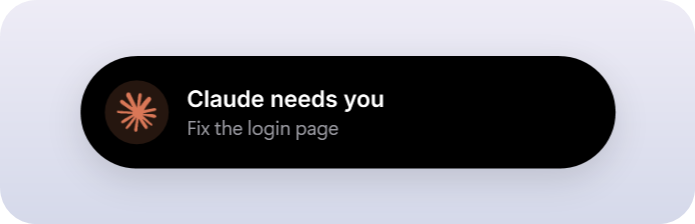
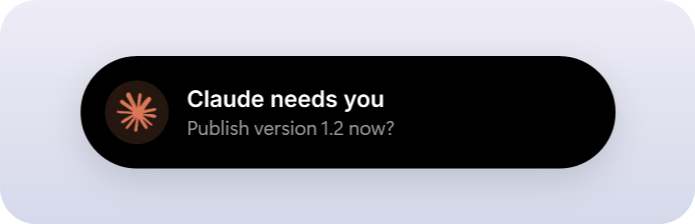
Show Claude Desktop questions in the island with an Open Claude link (2.4.3)

Changed region(s): [[0.2719, 0.5312, 0.5741, 0.625]]

diff --git a/src/IslandWindow.xaml b/src/IslandWindow.xaml
@@ -376,7 +376,8 @@
                             </Border>
                             <StackPanel Grid.Column="1" Margin="12,0,0,0" VerticalAlignment="Center">
                                 <TextBlock x:Name="ClaudeTitle" Text="Claude Code" FontSize="15" FontWeight="SemiBold"/>
-                                <TextBlock x:Name="ClaudeStatus" Style="{StaticResource Caption}" Margin="0,1,0,0"/>
+                                <TextBlock x:Name="ClaudeStatus" Style="{StaticResource Caption}" Margin="0,1,0,0" TextTrimming="CharacterEllipsis"/>
+                                <TextBlock x:Name="OpenClaudeLink" FontSize="12" Foreground="#0A84FF" Cursor="Hand" Margin="0,3,0,0" Visibility="Collapsed"/>
                             </StackPanel>
                         </Grid>
 

diff --git a/src/ClaudeWaiting.cs b/src/ClaudeWaiting.cs
@@ -38,7 +38,9 @@ namespace WindowsIsland
             public long Length;
             public DateTime Write;
             public Pending Oldest;
-            public bool Asking; // The last thing Claude did was ask a blocking question that has no answer yet
+            public bool Asking; // The last thing Claude did was ask a question that has no answer yet
+            public string AskText; // The question (shortened) and the names of its answer buttons
+            public List<string> AskButtons;
             public DateTime SearchedAt; // When the transcript was last looked for in vain
         }
 
@@ -46,13 +48,18 @@ namespace WindowsIsland
 
         // True when the chat's last turn ended with a question that needs an answer (Claude Desktop's wrap-up
         // with a blocking question, which is what turns the chat's dot yellow) and nothing was said after it.
-        public static bool IsAsking(string sessionId)
+        public static bool IsAsking(string sessionId, out string question, out List<string> buttons)
         {
+            question = null;
+            buttons = null;
             try
             {
                 OldestPending(sessionId);
                 Cached entry;
-                return cache.TryGetValue(sessionId, out entry) && entry.Asking;
+                if (!cache.TryGetValue(sessionId, out entry) || !entry.Asking) return false;
+                question = entry.AskText;
+                buttons = entry.AskButtons;
+                return true;
             }
             catch (Exception)
             {
@@ -119,14 +126,20 @@ namespace WindowsIsland
             entry.Length = info.Length;
             entry.Write = info.LastWriteTimeUtc;
             bool asking;
-            entry.Oldest = Scan(entry.Path, info.Length, out asking);
+            string askText;
+            List<string> askButtons;
+            entry.Oldest = Scan(entry.Path, info.Length, out asking, out askText, out askButtons);
             entry.Asking = asking;
+            entry.AskText = askText;
+            entry.AskButtons = askButtons;
             return entry.Oldest;
         }
 
-        static Pending Scan(string path, long length, out bool asking)
+        static Pending Scan(string path, long length, out bool asking, out string askText, out List<string> askButtons)
         {
             asking = false;
+            askText = null;
+            askButtons = null;
             byte[] bytes;
             using (FileStream stream = new FileStream(path, FileMode.Open, FileAccess.Read, FileShare.ReadWrite | FileShare.Delete))
             {
@@ -151,7 +164,7 @@ namespace WindowsIsland
                 bool assistant = line.Contains("\"type\":\"assistant\"", StringComparison.Ordinal);
                 bool result = line.Contains("\"tool_result\"", StringComparison.Ordinal);
                 // Something the user said (not a tool's result) answers any question asked before it
-                if (!assistant && !result && line.Contains("\"type\":\"user\"", StringComparison.Ordinal) && !line.Contains("\"isSidechain\":true", StringComparison.Ordinal)) asking = false;
+                if (!assistant && !result && line.Contains("\"type\":\"user\"", StringComparison.Ordinal) && !line.Contains("\"isSidechain\":true", StringComparison.Ordinal)) { asking = false; askText = null; askButtons = null; }
                 if (!assistant && !result) continue;
                 try
                 {
@@ -176,10 +189,29 @@ namespace WindowsIsland
                                 JsonElement id, name;
                                 if (block.TryGetProperty("id", out id) && block.TryGetProperty("name", out name) && id.ValueKind == JsonValueKind.String)
                                     open[id.GetString()] = new Pending { Name = name.GetString() ?? "", Since = when };
-                                JsonElement input, blocked;
+                                // Claude Desktop's wrap-up carries the question for you and the answer buttons it shows
+                                JsonElement input, ask, actions;
                                 if (block.TryGetProperty("name", out name) && name.GetString() == "mcp__ccd_turn__wrap_up" &&
-                                    block.TryGetProperty("input", out input) && input.ValueKind == JsonValueKind.Object &&
-                                    input.TryGetProperty("blocked", out blocked) && blocked.ValueKind == JsonValueKind.True) asking = true;
+                                    block.TryGetProperty("input", out input) && input.ValueKind == JsonValueKind.Object)
+                                {
+                                    string text = input.TryGetProperty("ask", out ask) && ask.ValueKind == JsonValueKind.String ? ask.GetString() : null;
+                                    bool hard = input.TryGetProperty("blocked", out ask) && ask.ValueKind == JsonValueKind.True;
+                                    if (!string.IsNullOrWhiteSpace(text) || hard)
+                                    {
+                                        asking = true;
+                                        text = (text ?? "").Trim();
+                                        askText = text.Length > 140 ? text.Substring(0, 139) + "\u2026" : text;
+                                        askButtons = new List<string>();
+                                        if (input.TryGetProperty("actions", out actions) && actions.ValueKind == JsonValueKind.Array)
+                                            foreach (JsonElement action in actions.EnumerateArray())
+                                            {
+                                                JsonElement label;
+                                                if (action.ValueKind == JsonValueKind.Object && action.TryGetProperty("label", out label) && label.ValueKind == JsonValueKind.String)
+                                                    askButtons.Add(label.GetString());
+                                            }
+                                    }
+                                    else { asking = false; askText = null; askButtons = null; }
+                                }
                             }
                             else if (kind == "tool_result")
                             {

diff --git a/src/ClaudeService.cs b/src/ClaudeService.cs
@@ -37,6 +37,7 @@ namespace WindowsIsland
             public string Id;
             public string Name;
             public string Status;
+            public string Question;
             public DateTime StatusSince;
         }
 
@@ -66,7 +67,9 @@ namespace WindowsIsland
             public string Name;
             public bool Waiting;
             public DateTime Since;
+            public string Question; // What a waiting chat asks, when it asked a question
         }
+        public string LastQuestion { get; private set; } // The question of the chat that just started waiting
         public List<ActiveSession> Active { get; private set; } = new List<ActiveSession>();
         public string WaitingName { get; private set; }
         public UsageWindow Session { get; private set; }
@@ -134,7 +137,7 @@ namespace WindowsIsland
         {
             DateTime now = DateTime.Now;
             Active = new List<ActiveSession>();
-            if (waiting > 0) Active.Add(new ActiveSession { Name = Strings.SampleSessionTwo, Waiting = true, Since = now.AddSeconds(-20) });
+            if (waiting > 0) Active.Add(new ActiveSession { Name = Strings.SampleSessionTwo, Waiting = true, Since = now.AddSeconds(-20), Question = Strings.SampleQuestion });
             Active.Add(new ActiveSession { Name = Strings.SampleSession, Since = now.AddSeconds(-84) });
             Running = 2;
             Busy = waiting > 0 ? 1 : 2;
@@ -183,7 +186,7 @@ namespace WindowsIsland
             {
                 present.Add(session.Id);
                 if (session.Status == "busy" || session.Status == "waiting")
-                    active.Add(new ActiveSession { Name = session.Name, Waiting = session.Status == "waiting", Since = session.StatusSince });
+                    active.Add(new ActiveSession { Name = session.Name, Waiting = session.Status == "waiting", Since = session.StatusSince, Question = session.Question });
                 if (session.Status == "busy")
                 {
                     busy++;
@@ -203,7 +206,10 @@ namespace WindowsIsland
                 if (seen.TryGetValue(session.Id, out previous) && previous.Status != session.Status && primed)
                 {
                     if (session.Status == "waiting")
+                    {
+                        LastQuestion = session.Question;
                         Alert?.Invoke(true, session.Name);
+                    }
                     else if (previous.Status == "busy" && session.Status == "idle" &&
                              session.StatusSince - previous.Since >= MinimumWorkForAlert)
                         Alert?.Invoke(false, session.Name);
@@ -347,7 +353,16 @@ namespace WindowsIsland
                         // Claude Desktop keeps a session "busy" while it asks for a permission, so look at the transcript too
                         if (session.Status == "busy" && ClaudeWaiting.IsWaiting(session.Id, processId)) session.Status = "waiting";
                         // A chat that ended its turn with a question for you (the yellow dot in Claude Desktop) also waits
-                        else if ((session.Status == "idle" || session.Status == "busy") && ClaudeWaiting.IsAsking(session.Id)) session.Status = "waiting";
+                        else if (session.Status == "idle" || session.Status == "busy")
+                        {
+                            string question;
+                            System.Collections.Generic.List<string> buttons;
+                            if (ClaudeWaiting.IsAsking(session.Id, out question, out buttons))
+                            {
+                                session.Status = "waiting";
+                                session.Question = question;
+                            }
+                        }
                         sessions.Add(session);
                     }
                 }

diff --git a/src/IslandWindow.xaml.cs b/src/IslandWindow.xaml.cs
@@ -169,6 +169,8 @@ namespace WindowsIsland
             Pill.MouseLeave += OnPillLeave;
             Pill.MouseLeftButtonUp += OnPillClick;
             enterTimer.Tick += (s, e) => { enterTimer.Stop(); SetHovering(true); };
+            OpenClaudeLink.MouseLeftButtonUp += (s, e) => { e.Handled = true; ClaudeWindow.Focus(); };
+            OpenClaudeLink.MouseLeftButtonDown += (s, e) => e.Handled = true;
             // Resting the mouse on the small second activity opens the island straight on that activity's page
             bubbleTimer.Tick += (s, e) =>
             {
@@ -691,7 +693,7 @@ namespace WindowsIsland
             SaveSnapshot(System.IO.Path.Combine(folder, "notification" + suffix + ".png"));
 
             // Claude asking for you (a permission or a question), on the same banner
-            banners.Enqueue(new BannerItem { FromClaude = true, Title = Strings.ClaudeNeedsYou, Subtitle = Strings.SampleSessionTwo, Seconds = 5 });
+            banners.Enqueue(new BannerItem { FromClaude = true, Title = Strings.ClaudeNeedsYou, Subtitle = Strings.SampleQuestion, Seconds = 5 });
             NextBanner();
             Root.UpdateLayout();
             ApplyFrame();
@@ -1183,7 +1185,7 @@ namespace WindowsIsland
             {
                 FromClaude = true,
                 Title = waiting ? Strings.ClaudeNeedsYou : Strings.ClaudeDone,
-                Subtitle = name,
+                Subtitle = waiting && !string.IsNullOrWhiteSpace(claude.LastQuestion) ? claude.LastQuestion : name,
                 Seconds = settings.AlertSeconds + (waiting ? 1 : 0), // A question waits a little longer
             });
         }
@@ -1517,6 +1519,8 @@ namespace WindowsIsland
             }
 
             ClaudeTitle.Visibility = many > 1 ? Visibility.Collapsed : Visibility.Visible; // The lines take its place
+            OpenClaudeLink.Visibility = waiting ? Visibility.Visible : Visibility.Collapsed; // A question is answered in the Claude app
+            if (waiting && OpenClaudeLink.Text.Length == 0) OpenClaudeLink.Text = Strings.OpenClaude;
             string status;
             if (many > 1)
             {
@@ -1525,7 +1529,7 @@ namespace WindowsIsland
                 for (int i = 0; i < Math.Min(3, many); i++)
                 {
                     ClaudeService.ActiveSession item = claude.Active[i];
-                    lines.Add(item.Waiting ? Join(Strings.WaitingForYou, item.Name) : Join(Strings.Working + " " + FormatTime(DateTime.Now - item.Since), item.Name));
+                    lines.Add(item.Waiting ? Join(Strings.WaitingForYou, string.IsNullOrWhiteSpace(item.Question) ? item.Name : item.Name + ": " + item.Question) : Join(Strings.Working + " " + FormatTime(DateTime.Now - item.Since), item.Name));
                 }
                 if (many > 3) lines.Add("+" + (many - 3));
                 status = string.Join(Environment.NewLine, lines);

diff --git a/src/Strings.cs b/src/Strings.cs
@@ -75,6 +75,7 @@ namespace WindowsIsland
                                                          "Você está livre ao meio-dia? Abriu um lugar novo aqui perto.",
                                                          "¿Estás libre al mediodía? Abrieron un sitio nuevo cerca.",
                                                          "Вы свободны в полдень? Рядом открылось новое место.");
+        public static string SampleQuestion => T("Publish version 1.2 now?", "Publico a versão 1.2 agora?", "¿Publico la versión 1.2 ahora?", "Опубликовать версию 1.2 сейчас?");
         public static string SampleSessionTwo => T("Fix the login page", "Corrigir a página de login", "Arreglar la página de inicio de sesión", "Исправить страницу входа");
         public static string SampleSession => T("Refactor the settings panel", "Refatorar o painel de ajustes", "Refactorizar el panel de ajustes", "Переработать панель настроек");
 
@@ -187,6 +188,7 @@ namespace WindowsIsland
         public static string UpdateFailed => T("Could not check for updates", "Não foi possível procurar atualizações", "No se pudo buscar actualizaciones", "Не удалось проверить обновления");
         public static string UpdatesNeedInstall => T("Updates work in the installed copy", "As atualizações funcionam na cópia instalada", "Las actualizaciones funcionan en la copia instalada", "Обновления работают в установленной копии");
         public static string UpdatedTo(string version) => T("Updated to version ", "Atualizado para a versão ", "Actualizado a la versión ", "Обновлено до версии ") + version;
+        public static string OpenClaude => T("Open Claude", "Abrir o Claude", "Abrir Claude", "Открыть Claude");
         public static string MenuUninstall => T("Uninstall Windows Island", "Desinstalar o Windows Island", "Desinstalar Windows Island", "Удалить Windows Island");
         public static string MenuOpenSettings => T("Open settings file", "Abrir arquivo de configurações", "Abrir archivo de configuración", "Открыть файл настроек");
         public static string MenuQuit => T("Quit", "Sair", "Salir", "Выход");

diff --git a/src/ClaudeWindow.cs b/src/ClaudeWindow.cs
@@ -1,0 +1,44 @@
+using System;
+using System.Diagnostics;
+using System.Runtime.InteropServices;
+using System.Text;
+
+namespace WindowsIsland
+{
+    // Brings the Claude desktop app to the front, so a question it asks can be answered there.
+    static class ClaudeWindow
+    {
+        delegate bool EnumProc(IntPtr h, IntPtr l);
+        [DllImport("user32.dll")] static extern bool EnumWindows(EnumProc proc, IntPtr l);
+        [DllImport("user32.dll")] static extern bool IsWindowVisible(IntPtr h);
+        [DllImport("user32.dll", CharSet = CharSet.Unicode)] static extern int GetWindowText(IntPtr h, StringBuilder text, int max);
+        [DllImport("user32.dll")] static extern uint GetWindowThreadProcessId(IntPtr h, out uint pid);
+        [DllImport("user32.dll")] static extern bool SetForegroundWindow(IntPtr h);
+        [DllImport("user32.dll")] static extern bool ShowWindow(IntPtr h, int cmd);
+        [DllImport("user32.dll")] static extern bool IsIconic(IntPtr h);
+
+        public static void Focus()
+        {
+            IntPtr found = IntPtr.Zero;
+            EnumWindows((h, l) =>
+            {
+                if (!IsWindowVisible(h)) return true;
+                StringBuilder title = new StringBuilder(128);
+                GetWindowText(h, title, 128);
+                if (!title.ToString().StartsWith("Claude", StringComparison.Ordinal)) return true;
+                uint pid;
+                GetWindowThreadProcessId(h, out pid);
+                try
+                {
+                    using (Process owner = Process.GetProcessById((int)pid))
+                        if (string.Equals(owner.ProcessName, "claude", StringComparison.OrdinalIgnoreCase)) { found = h; return false; }
+                }
+                catch (Exception) { }
+                return true;
+            }, IntPtr.Zero);
+            if (found == IntPtr.Zero) return;
+            if (IsIconic(found)) ShowWindow(found, 9);
+            SetForegroundWindow(found);
+        }
+    }
+}

diff --git a/README.ru.md b/README.ru.md
@@ -36,7 +36,7 @@ Dynamic Island для Windows. Музыка, Claude Code, его лимиты и
 - **Уведомления Windows** в острове, со значком приложения-отправителя, если их включить
 - **Две активности сразу:** вторая отделяется в пузырёк рядом с островом
 - **Несколько чатов Claude одновременно:** остров считает их (например, `2 · 0:58` или `1/2 · Ждёт`, когда один из двух ждёт вас), а страница Claude показывает каждый чат с его состоянием и временем
-- **Разрешения в Claude Desktop:** чат в приложении Claude для компьютера, который просит разрешение или задаёт вопрос, отображается как ожидающий вас, как и в терминале
+- **Разрешения в Claude Desktop:** чат в приложении Claude для компьютера, который просит разрешение или задаёт вопрос, отображается как ожидающий вас, как и в терминале Вопрос (если он короткий) показывается в оповещении, а на странице Claude есть ссылка **Открыть Claude**, которая выводит приложение на передний план, чтобы ответить.
 - **Значки сайтов:** с расширением для браузера веб-звук показывает значок самого сайта, а уведомления сайтов — значок и название сайта
 - **Плавное движение:** форма и содержимое меняются по законам пружины, а не за фиксированное время
 - **Ненавязчивость:** остров никогда не забирает фокус, клики вокруг него проходят в окно под ним, при развёрнутом окне он сжимается в тонкую линию, а в полноэкранном режиме скрывается

diff --git a/README.es.md b/README.es.md
@@ -36,7 +36,7 @@ Una Dynamic Island para Windows. La música, Claude Code, sus límites de uso y 
 - **Notificaciones de Windows** en la isla, con el icono de la app que las envió, si las activas
 - **Dos actividades a la vez:** la segunda se separa en una burbuja junto a la isla
 - **Varios chats de Claude a la vez:** la isla los cuenta (por ejemplo `2 · 0:58`, o `1/2 · Esperando` cuando uno de dos te espera) y la página de Claude lista cada chat con su estado y tiempo
-- **Permisos en Claude Desktop:** un chat de la app de escritorio de Claude que pide un permiso o hace una pregunta aparece como esperándote, igual que en el terminal
+- **Permisos en Claude Desktop:** un chat de la app de escritorio de Claude que pide un permiso o hace una pregunta aparece como esperándote, igual que en el terminal La pregunta (si es corta) aparece en el aviso, con un enlace **Abrir Claude** en la página de Claude que trae la app al frente para responder.
 - **Iconos de sitios:** con la extensión del navegador, el audio web muestra el icono del propio sitio, y las notificaciones de sitios muestran el icono y el nombre del sitio
 - **Movimiento fluido:** la forma y el contenido cambian con resortes, nunca con transiciones de duración fija
 - **Discreta:** nunca toma el foco, los clics a su alrededor llegan a la ventana de abajo, se reduce a una línea fina cuando hay una ventana maximizada delante y se oculta en pantalla completa

diff --git a/README.pt-BR.md b/README.pt-BR.md
@@ -36,7 +36,7 @@ Uma Dynamic Island para o Windows. Música, Claude Code, os limites de uso e sua
 - **Notificações do Windows** na ilha, com o ícone do app que as enviou, se você ligar
 - **Duas atividades ao mesmo tempo:** a segunda se separa numa bolha ao lado da ilha
 - **Vários chats do Claude ao mesmo tempo:** a ilha os conta (por exemplo `2 · 0:58`, ou `1/2 · Aguardando` quando um de dois espera você) e a página do Claude lista cada chat com seu estado e tempo
-- **Permissões no Claude Desktop:** um chat do app de desktop do Claude que pede uma permissão ou faz uma pergunta aparece como esperando você, como no terminal
+- **Permissões no Claude Desktop:** um chat do app de desktop do Claude que pede uma permissão ou faz uma pergunta aparece como esperando você, como no terminal A pergunta (quando é curta) aparece no aviso, com um link **Abrir o Claude** na página do Claude que traz o app para a frente para você responder.
 - **Ícones de sites:** com a extensão de navegador, o áudio da web mostra o ícone do próprio site, e as notificações de sites mostram o ícone e o nome do site
 - **Movimento fluido:** forma e conteúdo mudam com molas, nunca com transições de tempo fixo
 - **Discreta:** nunca rouba o foco, cliques ao redor chegam à janela de baixo, vira uma linha fina quando há uma janela maximizada na frente e some em tela cheia

diff --git a/README.md b/README.md
@@ -36,7 +36,7 @@ A Dynamic Island for Windows. Music, Claude Code, its usage limits and your noti
 - **Windows notifications** in the island, with the sending app's icon, if you turn them on
 - **Two activities at once:** the second one splits off into a bubble beside the island
 - **Several Claude chats at once:** the island counts them (for example `2 · 0:58`, or `1/2 · Waiting` when one of two waits for you) and the Claude page lists each chat with its own state and time
-- **Claude Desktop permissions:** a chat in the Claude desktop app that asks for a permission or puts a question shows as waiting for you, like in the terminal
+- **Claude Desktop permissions:** a chat in the Claude desktop app that asks for a permission or puts a question shows as waiting for you, like in the terminal The question (when it is short) is shown in the alert, with an **Open Claude** link on the Claude page that brings the app to the front to answer.
 - **Website icons:** with the browser extension, web audio shows the site's own icon, and website notifications show the site's icon and name
 - **Fluid motion:** shape and content morph with springs, never with fixed-time fades
 - **Discreet:** it never takes focus, clicks around it reach the window below, it shrinks to a thin line when a maximized window is in front and it hides in fullscreen

diff --git a/CHANGELOG.md b/CHANGELOG.md
@@ -1,5 +1,10 @@
 # Changelog
 
+## 2.4.3
+
+- **Questions from Claude Desktop:** a chat that ends with a question (such as "Publish?") is now recognized even when it is not marked as blocking, which is why the last one showed as idle. The alert and the Claude page show the question (shortened) and an **Open Claude** link brings the desktop app to the front to answer it. The island cannot click the answer for you
+
+
 ## 2.4.2
 
 - The uninstall button in Settings is now the last row and all in red, to mark it as dangerous
